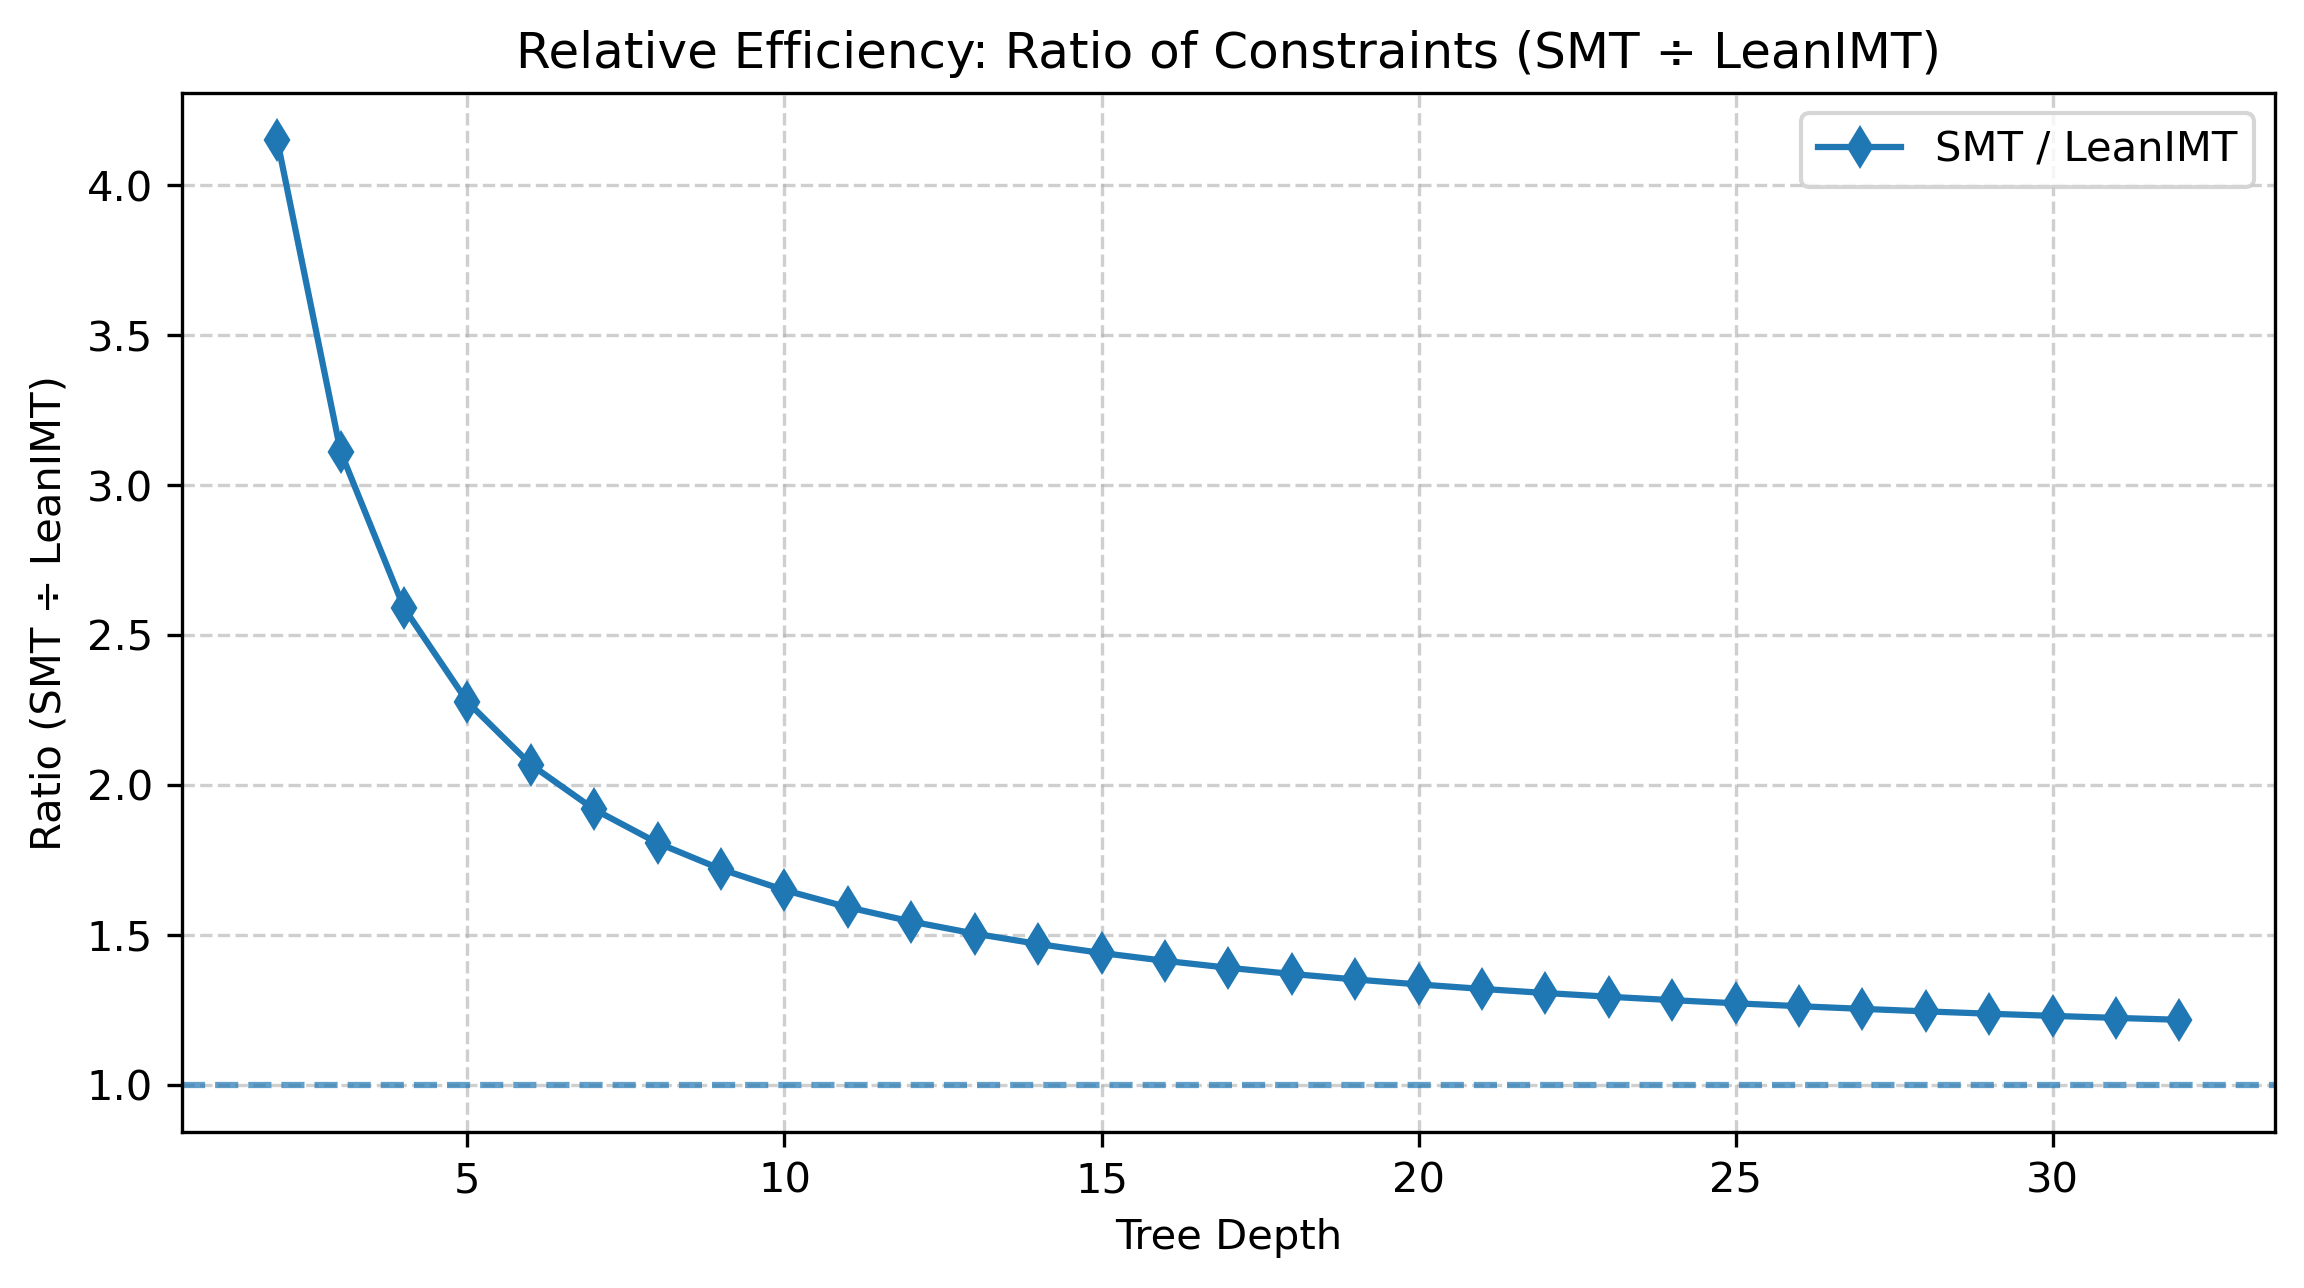
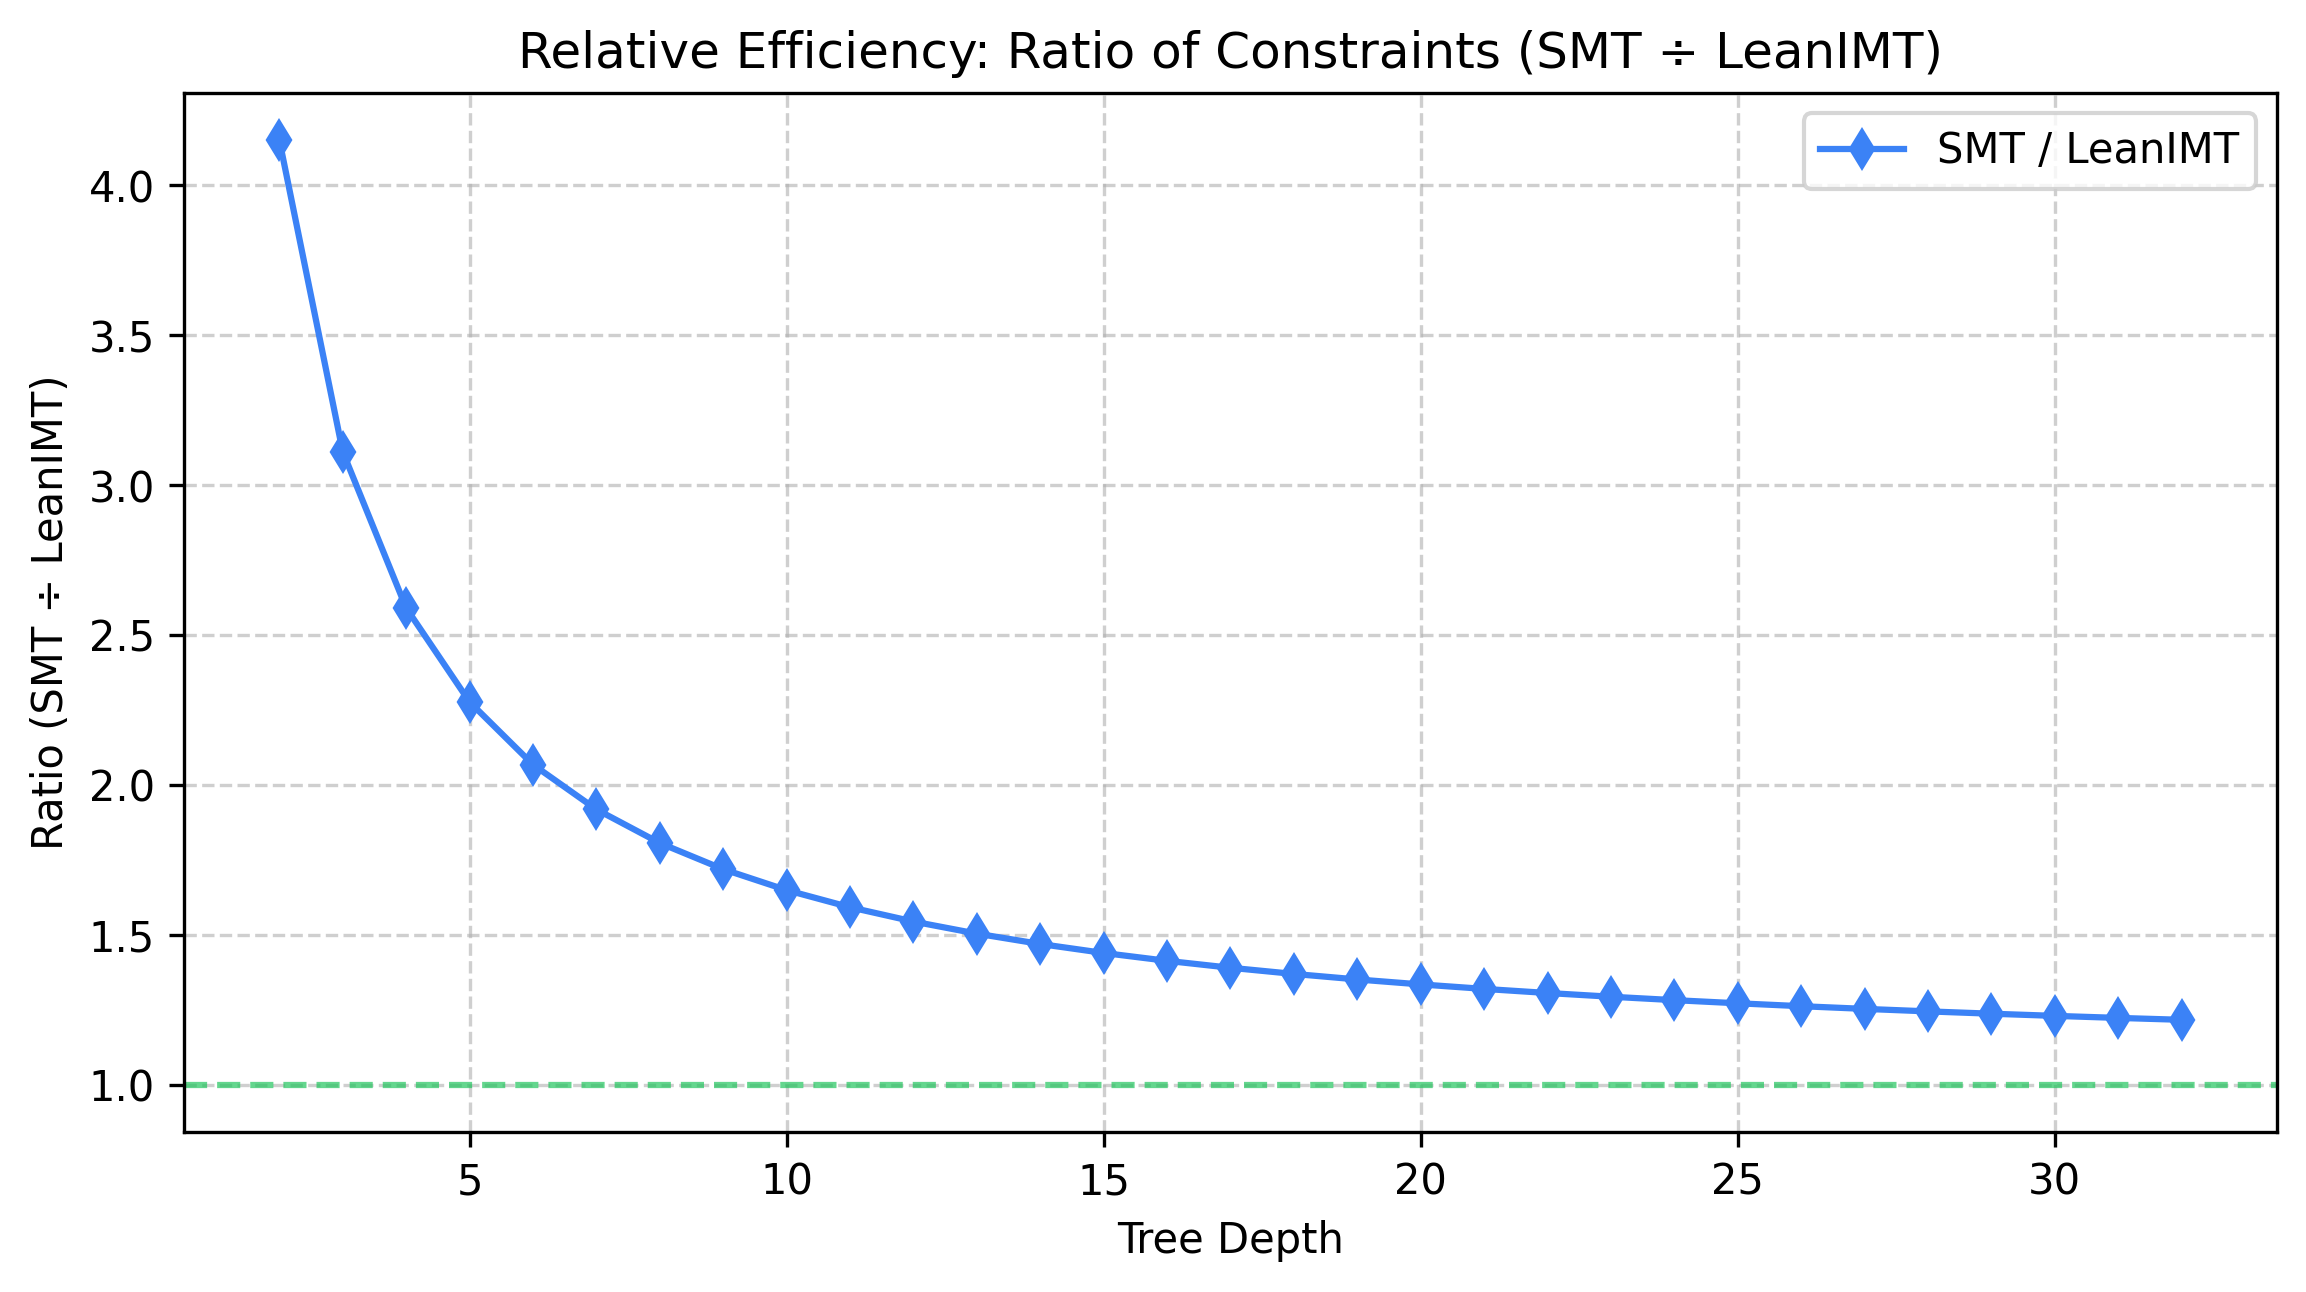
feat: add more charts for node and circuits

diff --git a/circuits/chart-scripts/circuit_constraints.py b/circuits/chart-scripts/circuit_constraints.py
@@ -14,8 +14,8 @@ ratio = [b / a for a, b in zip(leanimt, smt)]              # SMT / LeanIMT
 
 # ===== Chart 1: Absolute constraints (LeanIMT vs SMT) =====
 plt.figure(figsize=(9, 5))
-plt.plot(tree_depth, leanimt, marker='o', label="LeanIMT")
-plt.plot(tree_depth, smt, marker='s', label="SMT")
+plt.plot(tree_depth, leanimt, marker='o', label="LeanIMT", color="#22c55e")
+plt.plot(tree_depth, smt, marker='s', label="SMT", color="#3b82f6")
 # Visualize the gap (defaults to a neutral fill color)
 plt.fill_between(tree_depth, leanimt, smt, alpha=0.2, label="Difference")
 plt.title("LeanIMT vs SMT: Number of Constraints Across Tree Depth")
@@ -29,8 +29,8 @@ plt.show()
 
 # ===== Chart 2: Relative efficiency (ratio SMT / LeanIMT) =====
 plt.figure(figsize=(9, 4.5))
-plt.plot(tree_depth, ratio, marker='d', label="SMT / LeanIMT")
-plt.axhline(1.0, linestyle="--", alpha=0.7)  # reference line
+plt.plot(tree_depth, ratio, marker='d', label="SMT / LeanIMT", color="#3b82f6")
+plt.axhline(1.0, linestyle="--", alpha=0.7, color="#22c55e")  # reference line
 plt.title("Relative Efficiency: Ratio of Constraints (SMT ÷ LeanIMT)")
 plt.xlabel("Tree Depth")
 plt.ylabel("Ratio (SMT ÷ LeanIMT)")

diff --git a/node/chart-scripts/node-performance.py b/node/chart-scripts/node-performance.py
@@ -1,0 +1,34 @@
+import matplotlib.pyplot as plt
+from utils.read_json_data import read_json_data
+
+# ===== Load data =====
+data = read_json_data("./data/merkle-tree-benchmarks-1024.json")
+
+# ===== Prepare lists =====
+functions = [item["Function"] for item in data]
+smt_times = [item["SMT (ms)"] for item in data]
+leanimt_times = [item["LeanIMT (ms)"] for item in data]
+
+# ===== Plot =====
+plt.figure(figsize=(9, 5))
+bar_width = 0.35
+x = range(len(functions))
+
+plt.bar(x, smt_times, width=bar_width, label="SMT", color="#3b82f6")
+plt.bar([i + bar_width for i in x], leanimt_times, width=bar_width, label="LeanIMT", color="#22c55e")
+
+# Logarithmic scale to show wide range of values
+plt.yscale("log")
+
+# Labels and styling
+plt.xticks([i + bar_width / 2 for i in x], functions, rotation=25, ha="right")
+plt.ylabel("Average Time (ms, log scale)")
+plt.title("LeanIMT vs SMT: Node.js Performance (1024 Members)")
+plt.legend()
+plt.grid(axis="y", linestyle="--", alpha=0.6)
+
+# Save image (optional)
+# plt.savefig("./chart-images/nodejs-benchmark.png", dpi=300, bbox_inches="tight")
+
+plt.tight_layout()
+plt.show()

diff --git a/node/chart-scripts/utils/read_json_data.py b/node/chart-scripts/utils/read_json_data.py
@@ -1,0 +1,8 @@
+import json
+
+def read_json_data(file_path):
+    # Open and read the JSON file
+    with open(file_path, 'r') as file:
+        data = json.load(file)
+    
+    return data
